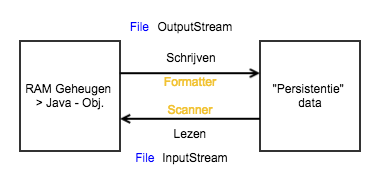
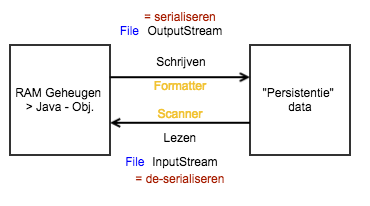
FileCHooser

Changed region(s): [[0.0, 0.1892, 0.9514, 0.8919], [0.327, 0.0541, 0.6243, 0.1892]]

diff --git a/1ste-jaar/semester-II/OO-Progammeren-II.md b/1ste-jaar/semester-II/OO-Progammeren-II.md
@@ -129,9 +129,9 @@ z = adres, referentie naar String-Object
 ```
 
 > String is een object!
-> 
+>
 > String is niet overerfbaar
-> 
+>
 > Strings zijn constanten
 
 ```java
@@ -213,7 +213,7 @@ String s = new String("hello");
 String s2 = s.replace("e", "a");
 //s2 = "hallo";
 
-// s2 krijgt de nieuwe waarde, s is nog steeds "hello"  
+// s2 krijgt de nieuwe waarde, s is nog steeds "hello"
 ```
 
 Bij `StringBuilder`
@@ -234,7 +234,7 @@ String s = new String("hello");
 StringBUilder builder = new StringBuilder(s);
 
 // Terug naar een String object
-s = builder.toString(); 
+s = builder.toString();
 ```
 
 #### Palindroom
@@ -246,7 +246,7 @@ package domein;
  *
  * @author robin
  */
-public class MijnString 
+public class MijnString
 {
     private String string;
 
@@ -259,17 +259,17 @@ public class MijnString
     {
         this.string = string;
     }
-    
+
     public void setInhoud(String invoer)
     {
         if (invoer == null || invoer.equals(""))
         {
             throw new IllegalArgumentException("Woord is niet ingevuld");
         }
-        
+
         this.string = invoer;
     }
-    
+
     public boolean isPalindroomString()
     {
         for (int i = 0, j = string.length() - 1; i < j; i++, j--) {
@@ -277,15 +277,15 @@ public class MijnString
                 return false;
             }
         }
-        
+
         return true;
     }
-    
+
     public boolean isPalindroomStringBuilder()
     {
         return string.equals((new StringBuilder(string)).reverse().toString());
     }
-    
+
 }
 ```
 
@@ -300,13 +300,13 @@ public class MijnString
 [StringTokenizer API](https://docs.oracle.com/javase/8/docs/api/java/util/StringTokenizer.html)
 
 > Opdelen van een stukje tekst
-> 
+>
 > * Split
 > * StringTokenizer
 
 ```java
 String s = "Dit is een zin!";
-StringTokenizer stToken = new StringTokenizer(s); // geen scheidingstekens dan: \t, \n, \r, en een spatie 
+StringTokenizer stToken = new StringTokenizer(s); // geen scheidingstekens dan: \t, \n, \r, en een spatie
 
 // Hoeveel stukjes zijn er?
 stToken.countTokens() // 4
@@ -336,11 +336,11 @@ zin
 StringTokenizer stToken3 = new StringTokenizer(s, "! ", true); // Ook scheidingstekens als een stukje
 // Resultaat
 Dit
- 
+
 is
- 
+
 een
- 
+
 zin
 !
 
@@ -375,7 +375,7 @@ String[] tokens2 = s.split("\\s"); // Reguliere Expressions
 | `[^a-z]` | *Alles behalve, de negatie* |
 
 ```java
-str.matches("[A-Z][a-zA-Z]*"); 
+str.matches("[A-Z][a-zA-Z]*");
 // Beginnen met een hoofdletter, verder met gewone of hoofdletters zonder spaties of letters
 ```
 
@@ -410,79 +410,137 @@ De `moederklasse` van alle file exception is: `IOException`
 
 ### Sequentiële bestanden
 
-1. Tekstbestanden (= leesbaar buiten Java omgeving)
-    
-    ```java
-    // SCHRIJVEN
-    public class CreateTextFile {
-        private Formatter output;
-        
-        public void openFile() {
-            try {
-                // Optie 1:
-                output = new Formatter(new FileOutputStream("clients.txt"));
-                
-                // Optie 2:
-                output = new Formatter("clients.txt");
-                
-                // Optie 3: Maar je moet een IOException catchen
-                output = new Formatter(Files.newOutputStream(Paths.get("clients.txt")));
-                
-            } catch(SecurityException securityException) {
-                System.err.println("You do not have write access to this file.");
-                System.exit(1);
-            } catch(FileNotFoundException filesNotFoundException) {
-                System.err.println("Error creating file.");
-                System.exit(1);
-            }
-        }
-        
-        public void addREcord(AccountRecord record) {
-            try {
-                output.format("%d %s %s %.2f%n", record.getAccount(), record.getFirstName(), record.getLastName(), record.getBalance();
-            } catch(IOException e) {
-                // Doe iets met de exception
-            } 
-        }
-        
-        public void closeFile() {
-            output.close();
-        }
-    }
-    ```
-    
-    ```java
-    // LEZEN
-    input = new Scanner(new File("clients.txt"));
-    while (input.hasNext()) {
-        input.nextInt();
-        input.next();
-        input.nextDouble();
-        input.nextLin(); // Leest hele record, niet appart
-        ...
-    }
-    ```
-    
-    ```java
-    // Voor Java7
-    try {
-        Formatter out = new Formatter(bsstand);
-        
-        // Werken met de stream
-    } catch() {
-        // Catch stuff
-    }
-    finally {
-        // Toch nog sluiten
-        out.close();
-    }
-    
-    // Nieuw sinds Java7
-    try (Formatter out = new Formatter(bestand)) {
-        // Werken met de stream
-    } catch() {
-        // Er moet niet meer gesloten worden.
-    }
-    ```
+#### Tekstbestanden (= leesbaar buiten Java omgeving)
 
-2. Geserialiseerde bestanden (= enkel bruikbaar binnen java)
+```java
+// SCHRIJVEN
+public class CreateTextFile {
+    private Formatter output;
+
+    public void openFile() {
+        try {
+            // Optie 1:
+            output = new Formatter(new FileOutputStream("clients.txt"));
+
+            // Optie 2:
+            output = new Formatter("clients.txt");
+
+            // Optie 3: Maar je moet een IOException catchen
+            output = new Formatter(Files.newOutputStream(Paths.get("clients.txt")));
+
+        } catch(SecurityException securityException) {
+            System.err.println("You do not have write access to this file.");
+            System.exit(1);
+        } catch(FileNotFoundException filesNotFoundException) {
+            System.err.println("Error creating file.");
+            System.exit(1);
+        }
+    }
+
+    public void addREcord(AccountRecord record) {
+        try {
+            output.format("%d %s %s %.2f%n", record.getAccount(), record.getFirstName(), record.getLastName(), record.getBalance();
+        } catch(IOException e) {
+            // Doe iets met de exception
+        }
+    }
+
+    public void closeFile() {
+        output.close();
+    }
+}
+```
+
+```java
+// LEZEN
+input = new Scanner(new File("clients.txt"));
+while (input.hasNext()) {
+    input.nextInt();
+    input.next();
+    input.nextDouble();
+    input.nextLin(); // Leest hele record, niet appart
+    ...
+}
+```
+
+```java
+// Voor Java7
+try {
+    Formatter out = new Formatter(bsstand);
+
+    // Werken met de stream
+} catch() {
+    // Catch stuff
+}
+finally {
+    // Toch nog sluiten
+    out.close();
+}
+
+// Nieuw sinds Java7
+try (Formatter out = new Formatter(bestand)) {
+    // Werken met de stream
+} catch() {
+    // Er moet niet meer gesloten worden.
+}
+```
+
+#### Geserialiseerde bestanden (= enkel bruikbaar binnen java)
+
+-> domeinklasse
+
+> ***!*** `Implements Serializable` -> Geen abstracte methodes, **`tagging`**-interface
+>
+> Alle attributen met keyword `transient` worden niet geserialiseerd
+>
+> **ObjectOutputStream** & **ObjectInputStream**
+> 
+> Data + type van attributen worden mee weggeschreven
+
+```java
+public class WriteObjects implements Serializable {
+    // Openen
+    File filename = new File("c:\\oef\\test.ser");
+    ObjectOutputStream output = new ObjectOutputStream(new FileOutputStream(filename));
+    
+    // Schrijven
+    output.writeObjec(/* data om te schrijven */);
+    
+    // Sluiten
+    output.close();
+}
+```
+
+
+```java
+public class ReadObjects implements Serializable {
+    
+    // Lezen
+    AccountRecord record = (AccountRecord) input.readObjec();
+    List<AccountRecord> records = (List<AccountRecord>)
+ input.readObjec();    
+ 
+    // Lezen per object
+    while (true) {} // Gooit een EOFException bij het einde van het bestand
+    
+    // Sluiten
+    input.close();
+}
+```
+
+### FileChooser
+
+> Toont een save file dialog waar je dan een naam kan aan geven.
+> 
+> Dit kan gebruikt worden om te schrijven en om te lezen!
+
+
+```java
+FileChooser fileChooser = new FileChooser();
+
+// Show Save Dialog
+File gekozenBestand = fileChooser.showSaveDialog(null);
+
+// Show Open Dialog
+File openBestand = fileChooser.showOpenDialog(null);
+```
